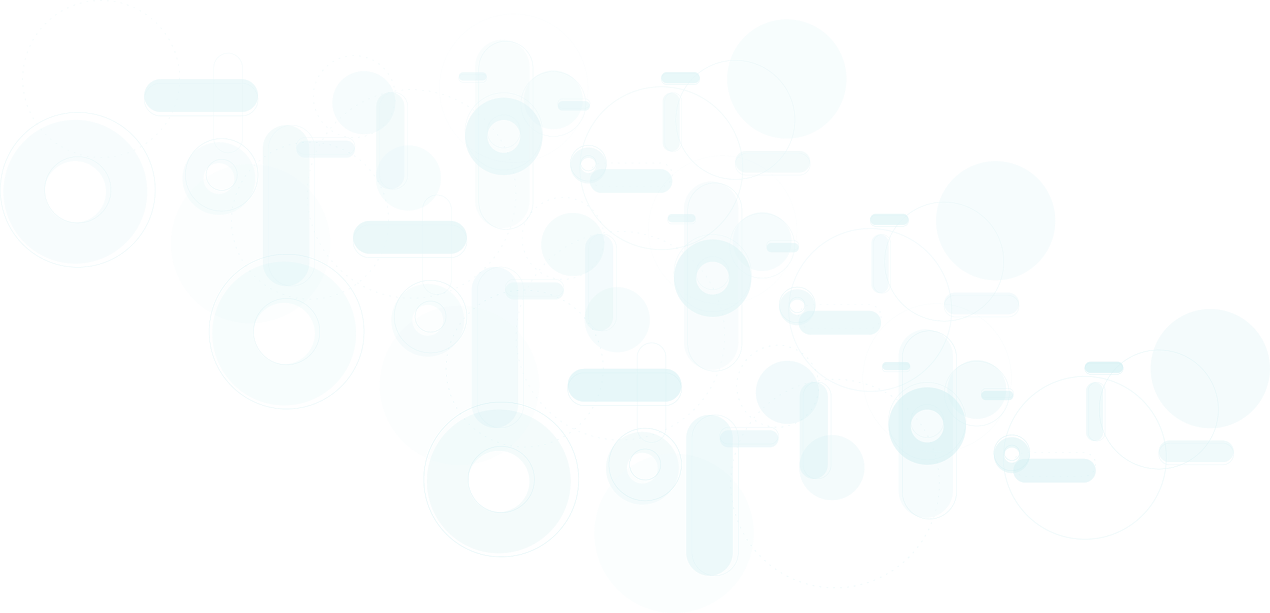
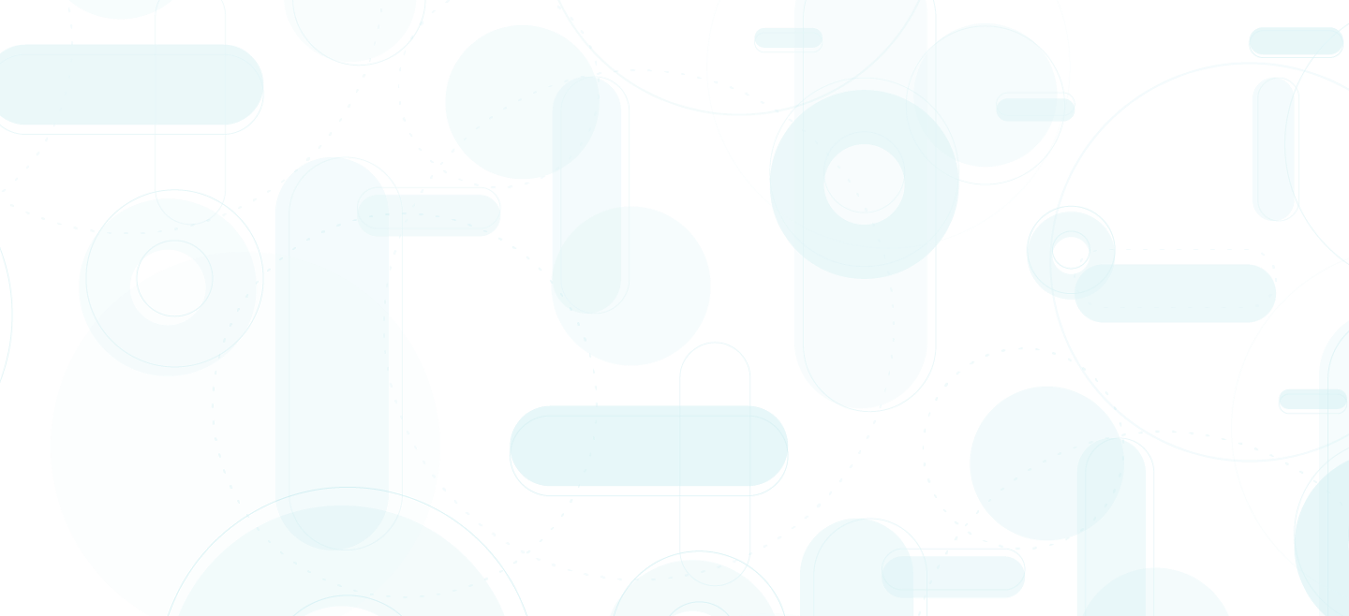
Alterações em layout

diff --git a/app/styles.css b/app/styles.css
@@ -1,12 +1,10 @@
 
 body {
   background: url(img/background.png) #45408d;  
-  background-position-y: -65px;
-  background-size: 205% 170%;
+  background-size: cover;
   height: 100%;
   font-family: 'Poppins', sans-serif;
   margin: 0px;
-  overflow: hidden;
   padding: 0px;
   width: 100%;
 }
@@ -26,12 +24,12 @@ body {
 }
 
 h1 {  
-  font-size: 92px;
+  font-size: 82pt;
   font-weight: 700; 
   line-height: 100px;
 }
 h4{
-    font-size: 24px;
+    font-size: 24pt;
     font-weight: 500;  
 }
 
@@ -48,7 +46,7 @@ h4{
   color: #91c1f6;
 }
 .input-field input[type=email]:focus{
-  border-bottom: 1px solid #91c1f6;
+  border-bottom: 2px solid #91c1f6;
   box-shadow: 0 1px 0 0 #91c1f6;
   color: #b2b4ce;
 }
@@ -62,7 +60,7 @@ h4{
   color: #fa8f8f;
 }
 .input-field input[type=email].invalid{
-  border-bottom: 1px solid #F44336;
+  border-bottom: 2px solid #F44336;
   box-shadow: 0 1px 0 0 #fa8f8f;
   color: #fa8f8f;
 }
@@ -139,7 +137,7 @@ span i.material-icons{
   left: 0px;
   height: 200px;
   text-align: center;
-  top: calc(100vh - 200px);
+  top: 530px; 
   width: 100%;
 }
 .footer img{
@@ -205,8 +203,8 @@ span i.material-icons{
 @media(max-width: 920px){
   
   body{
-    background-size: 800% 200%;
-    background-position: -1000px -200px;
+    background: url(img/background-mobile.png) #45408d; 
+    background-size: cover;
   }
 
   .title {
@@ -218,11 +216,11 @@ span i.material-icons{
   }
 
   h1 {  
-    font-size: 36px; 
+    font-size: 36pt; 
     line-height: 60px;  
   }
   h4{
-    font-size: 14px;
+    font-size: 14pt;
   }
   
   .container{
@@ -241,7 +239,7 @@ span i.material-icons{
   
   .footer{
     height: 120px;
-    top: calc(100vh - 120px);
+    top: 450px; 
     width: 100%;
   }
   .footer img{
